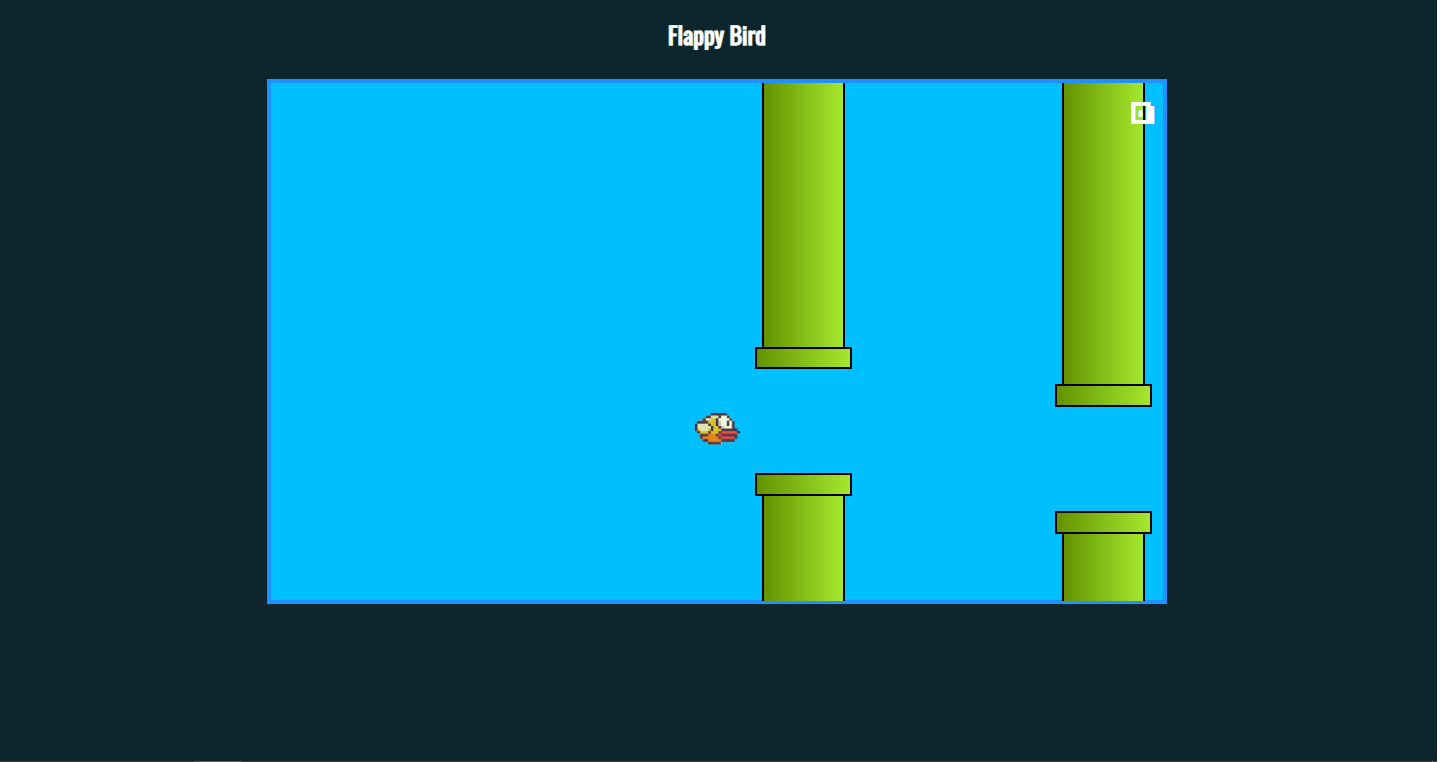
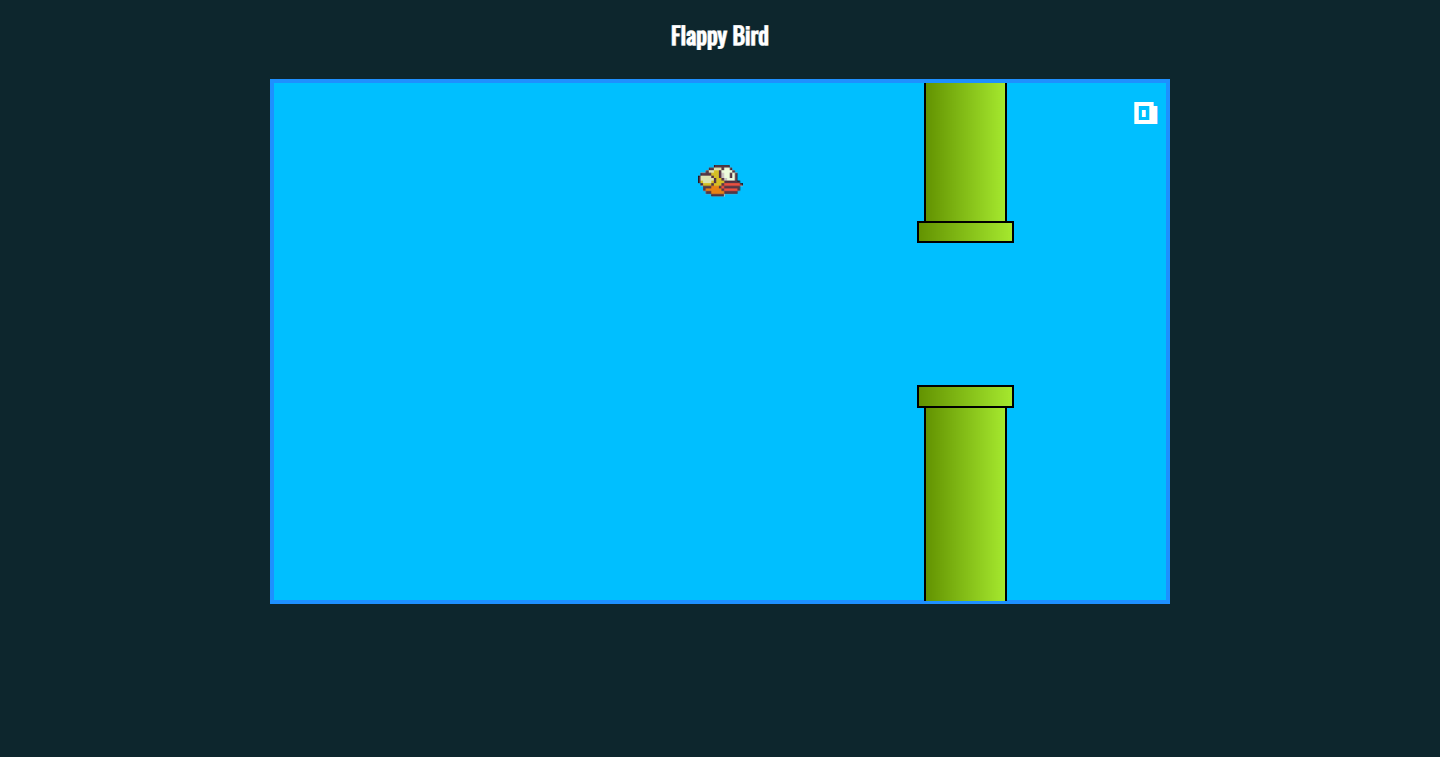
Finishing Flappy Bird

diff --git a/js/flappy.js b/js/flappy.js
@@ -144,7 +144,7 @@ function FlappyBird() {
     const largura = areaDojogo.clientWidth
 
     const progresso = new Progresso()
-    const barreiras = new Barreiras(altura, largura, 200, 400,
+    const barreiras = new Barreiras(altura, largura, 250, 400,
         _ => progresso.atualizarPontos(++pontos))
     const passaro = new Passaro(altura)
 
